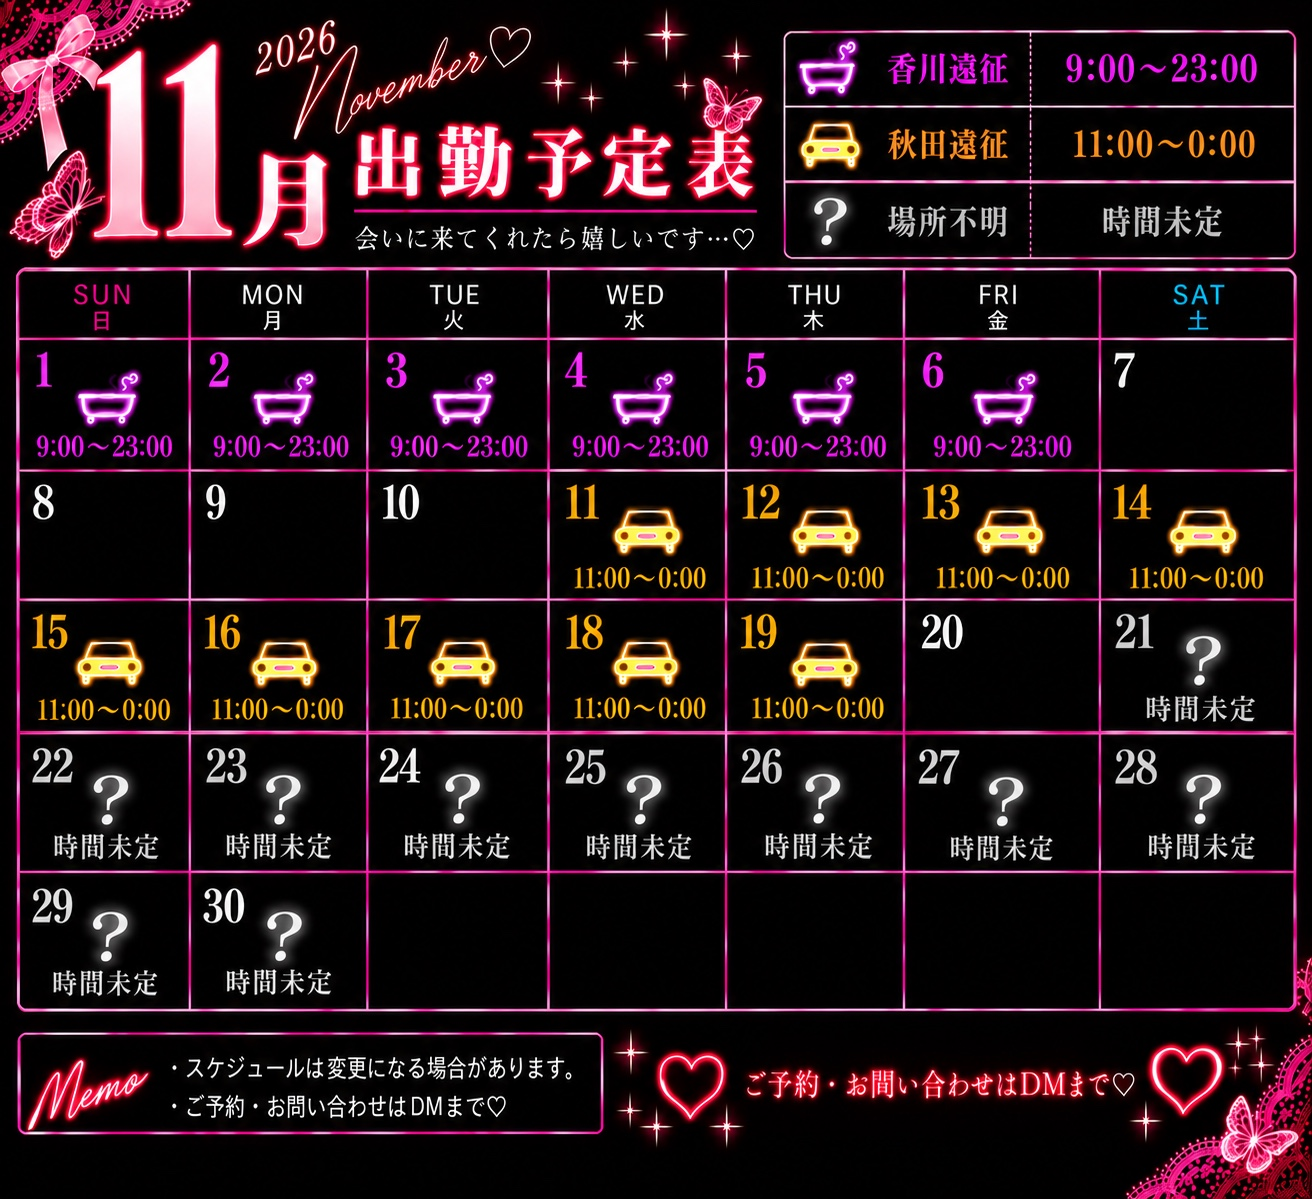
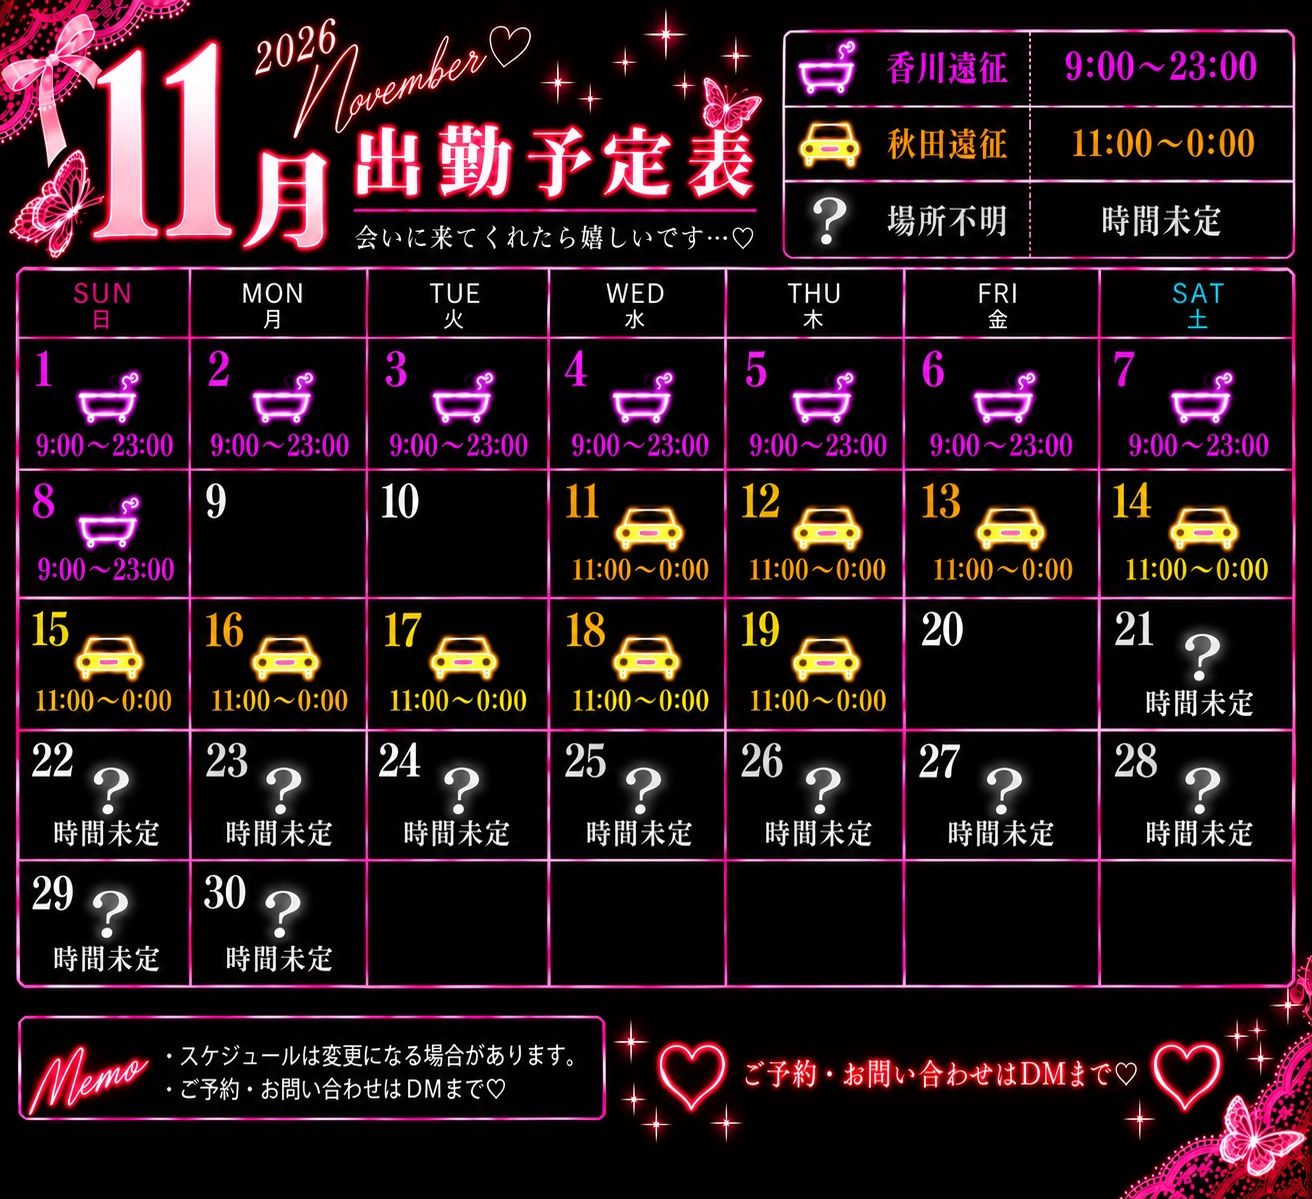
Add files via upload

Changed region(s): [[0.0, 0.0, 1.0, 1.0], [0.5, 0.0, 0.5312, 0.0309], [0.0938, 0.0617, 0.125, 0.0926]]

diff --git a/index.html b/index.html
@@ -48,7 +48,7 @@ section,.hero{scroll-margin-top:85px}
     btn.appendChild(im);btn.addEventListener('click',()=>{const box=document.getElementById('lightbox');box.querySelector('img').src=im.src;box.classList.add('show')});gallery.appendChild(btn);
   }
   const months=document.getElementById('months'),body=document.getElementById('schedule-body');
-  const items=[['2026年10月','calendar-2026-10.jpg'],['2026年11月','calendar-2026-11.jpg'],['2026年12月','calendar-2026-12.jpg']];
+  const items=[['2026年11月','calendar-2026-11.jpg'],['2026年12月','calendar-2026-12.jpg'],['2027年1月',null]];
   function showMonth(i){
     months.querySelectorAll('button').forEach((b,n)=>{b.classList.toggle('active',n===i);b.setAttribute('aria-pressed',String(n===i))});
     body.replaceChildren();
